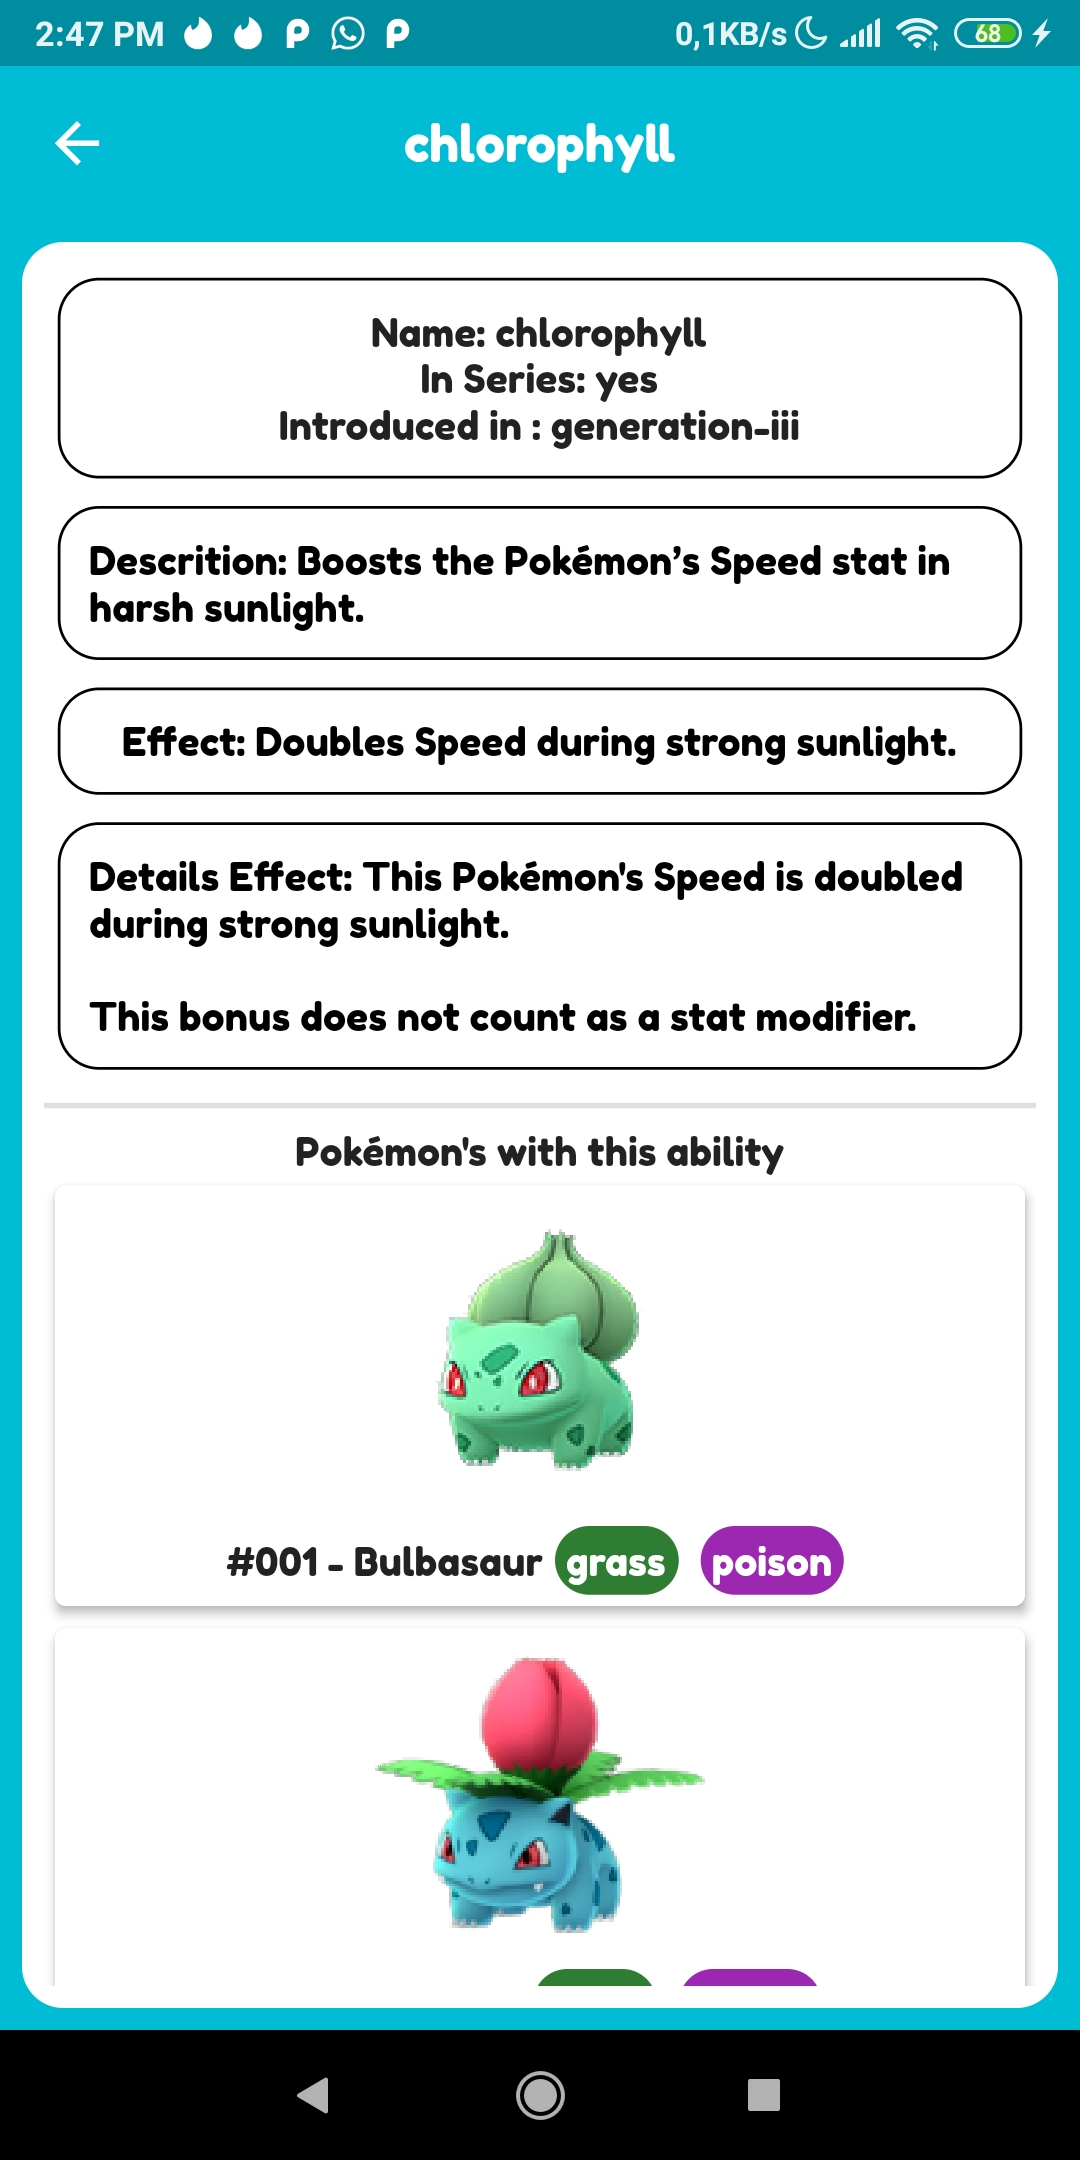
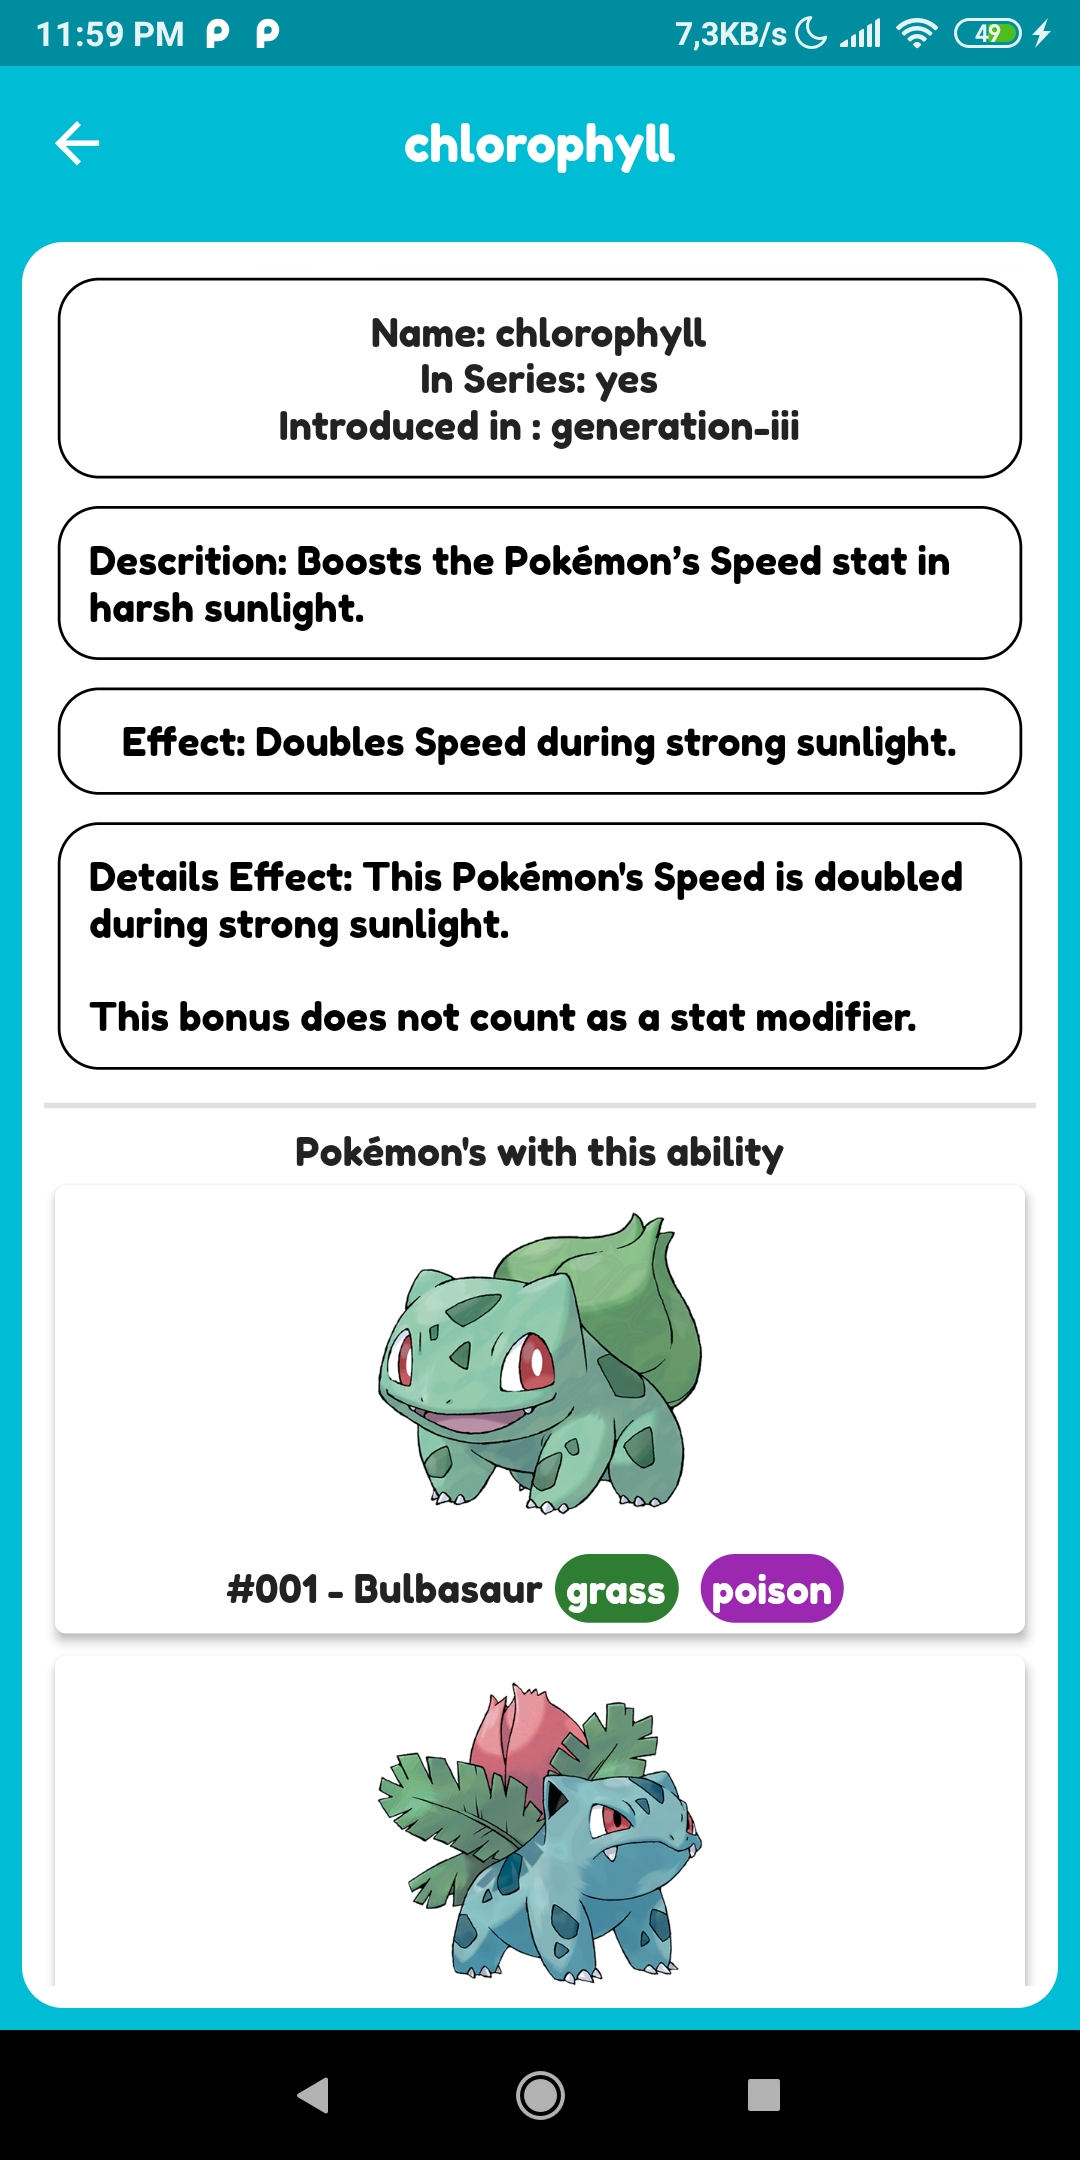
Melhoria nas Imagens

diff --git a/lib/view/detalhes/type_detalhes.dart b/lib/view/detalhes/type_detalhes.dart
@@ -45,7 +45,7 @@ class TypeDetalhes extends StatelessWidget {
                       )),
                   gerarContainer("",
                       child: Column(children: [
-                        Text("Half Damage To"),
+                        Text("Half Damage To - 1/2X"),
                         SingleChildScrollView(
                             scrollDirection: Axis.horizontal,
                             child: Row(
@@ -56,7 +56,7 @@ class TypeDetalhes extends StatelessWidget {
                       ])),
                   gerarContainer("",
                       child: Column(children: [
-                        Text("Half Damage From"),
+                        Text("Half Damage From - 1/2X"),
                         SingleChildScrollView(
                             scrollDirection: Axis.horizontal,
                             child: Row(
@@ -68,7 +68,7 @@ class TypeDetalhes extends StatelessWidget {
                       ])),
                   gerarContainer("",
                       child: Column(children: [
-                        Text("Double Damage To"),
+                        Text("Double Damage To - 2X"),
                         SingleChildScrollView(
                             scrollDirection: Axis.horizontal,
                             child: Row(
@@ -80,7 +80,7 @@ class TypeDetalhes extends StatelessWidget {
                       ])),
                   gerarContainer("",
                       child: Column(children: [
-                        Text("Double Damage From"),
+                        Text("Double Damage From - 2X"),
                         SingleChildScrollView(
                             scrollDirection: Axis.horizontal,
                             child: Row(
@@ -92,7 +92,7 @@ class TypeDetalhes extends StatelessWidget {
                       ])),
                   gerarContainer("",
                       child: Column(children: [
-                        Text("No Damage To"),
+                        Text("No Damage To - 0X"),
                         SingleChildScrollView(
                             scrollDirection: Axis.horizontal,
                             child: Row(
@@ -104,7 +104,7 @@ class TypeDetalhes extends StatelessWidget {
                       ])),
                   gerarContainer("",
                       child: Column(children: [
-                        Text("No Damage From"),
+                        Text("No Damage From - 0X"),
                         SingleChildScrollView(
                             scrollDirection: Axis.horizontal,
                             child: SingleChildScrollView(

diff --git a/lib/view/detalhes/ability_detalhes.dart b/lib/view/detalhes/ability_detalhes.dart
@@ -85,11 +85,19 @@ class AbilityDetalhes extends StatelessWidget {
     List<Widget> pokecards = List();
     List<String> nomes = List();
     for (AbilityPokemon p in ability.pokemon) {
-      Pokemon pokemon = Pokedex().toPokemon(p.pokemon.name);
+      Pokemon pokemon;
 
-      if (!nomes.contains(pokemon.name))
+      try {
+        pokemon = Pokedex()
+            .pokemons
+            .firstWhere((a) => a.name.contains(p.pokemon.name));
+      } catch (e) {
+        pokemon = null;
+      }
+
+      if (pokemon != null && !nomes.contains(pokemon.name))
         nomes.add(pokemon.name);
-      else if (nomes.contains(pokemon.name)) pokemon = null;
+      else if (pokemon != null && nomes.contains(pokemon.name)) pokemon = null;
       if (pokemon != null) {
         pokecards.add(PokeCard(pokemon, axis: Axis.vertical, onSelecionar: () {
           Navigator.push(context,

diff --git a/lib/util/format.dart b/lib/util/format.dart
@@ -1,7 +1,10 @@
 import 'package:flutter/material.dart';
 
 String formatID(String i) {
-  return "https://www.serebii.net/pokemongo/pokemon/${i.replaceFirst("#", "")}.png";
+  // return "https://www.serebii.net/pokemongo/pokemon/${i.replaceFirst("#", "")}.png";
+  // return "https://www.serebii.net/pokemongo/pokemon/shiny/${i.replaceFirst("#", "")}.png"; //shiny
+  // "https://www.serebii.net/itemdex/sprites/pgl/sunstone.png" //item
+  return "https://assets.pokemon.com/assets/cms2/img/pokedex/full/${i.replaceFirst("#", "")}.png";
 }
 
 Map<String, Color> colors = {

diff --git a/lib/view/componentes/poke_card.dart b/lib/view/componentes/poke_card.dart
@@ -40,11 +40,13 @@ class PokeCard extends StatelessWidget {
 
   Widget imagem() {
     return Container(
+      height: 130,
+      width: 130,
         child: CachedNetworkImage(
       imageUrl: formatID(pokemon.number),
       placeholder: (context, url) => CircularProgressIndicator(),
       errorWidget: (context, url, error) => Icon(Icons.error),
-      fit: BoxFit.cover,
+      fit: BoxFit.contain,
     ));
   }
 

diff --git a/lib/view/detalhes/poke_detalhes.dart b/lib/view/detalhes/poke_detalhes.dart
@@ -42,6 +42,7 @@ class PokeDetalhes extends StatelessWidget {
                               CircularProgressIndicator(),
                           errorWidget: (context, url, error) =>
                               Icon(Icons.error),
+                          // fit: BoxFit.contain,
                           fit: BoxFit.cover,
                         ),
                       ),

diff --git a/lib/model/pokedex.dart b/lib/model/pokedex.dart
@@ -26,7 +26,7 @@ class Pokedex {
 
   Pokemon toPokemon(String poke) {
     try {
-      return pokemons.firstWhere((p) => poke.contains(p.name));
+      return pokemons.firstWhere((p) => p.name == poke);
     } catch (e) {
       return null;
     }
